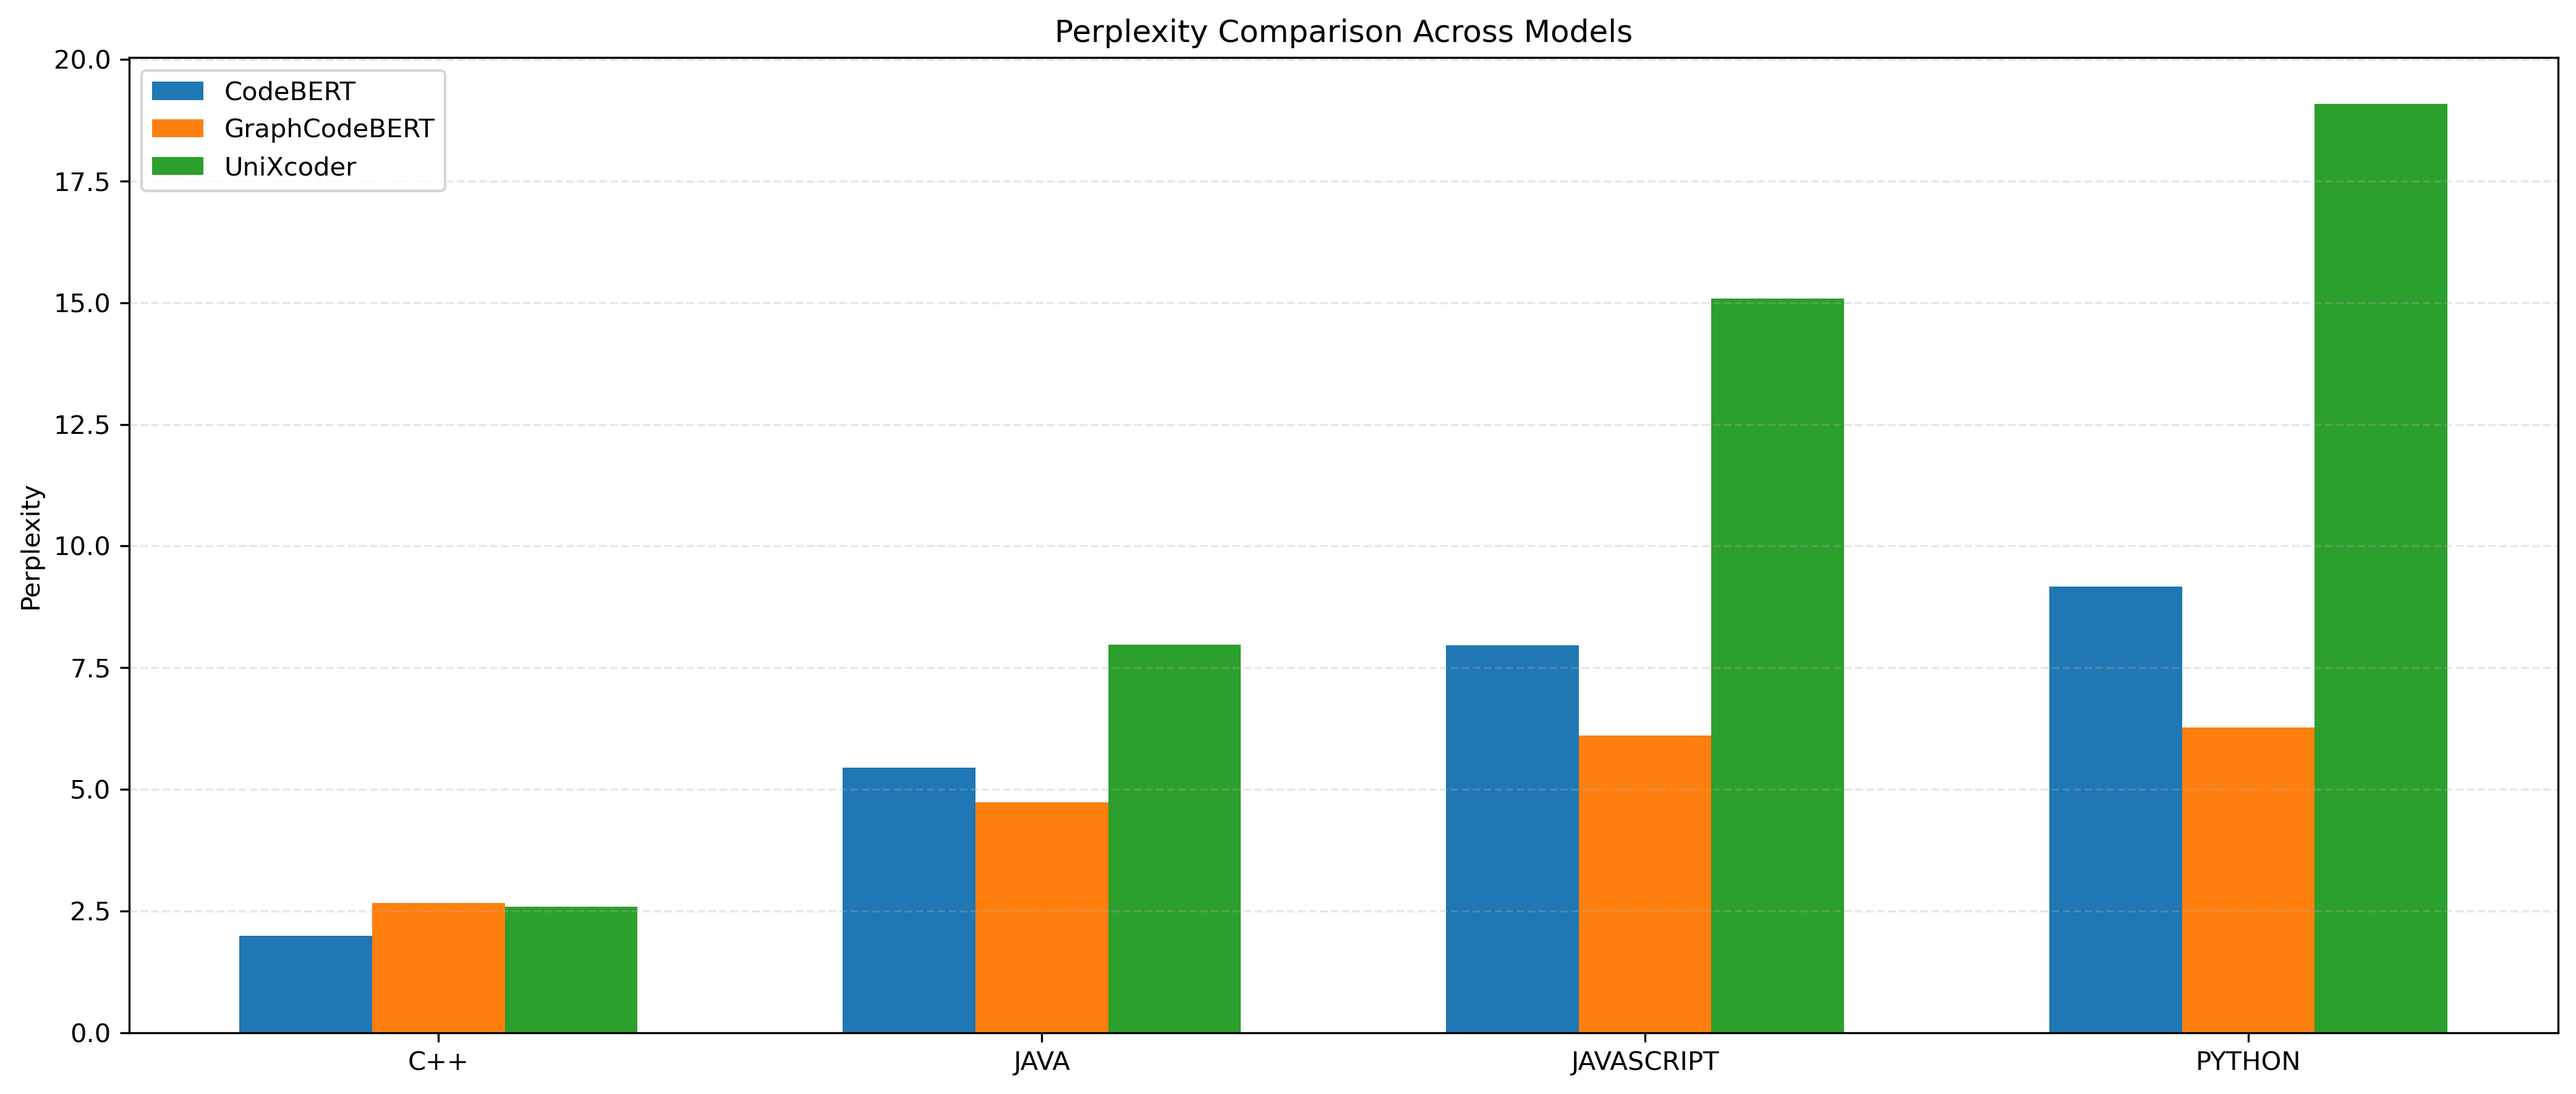
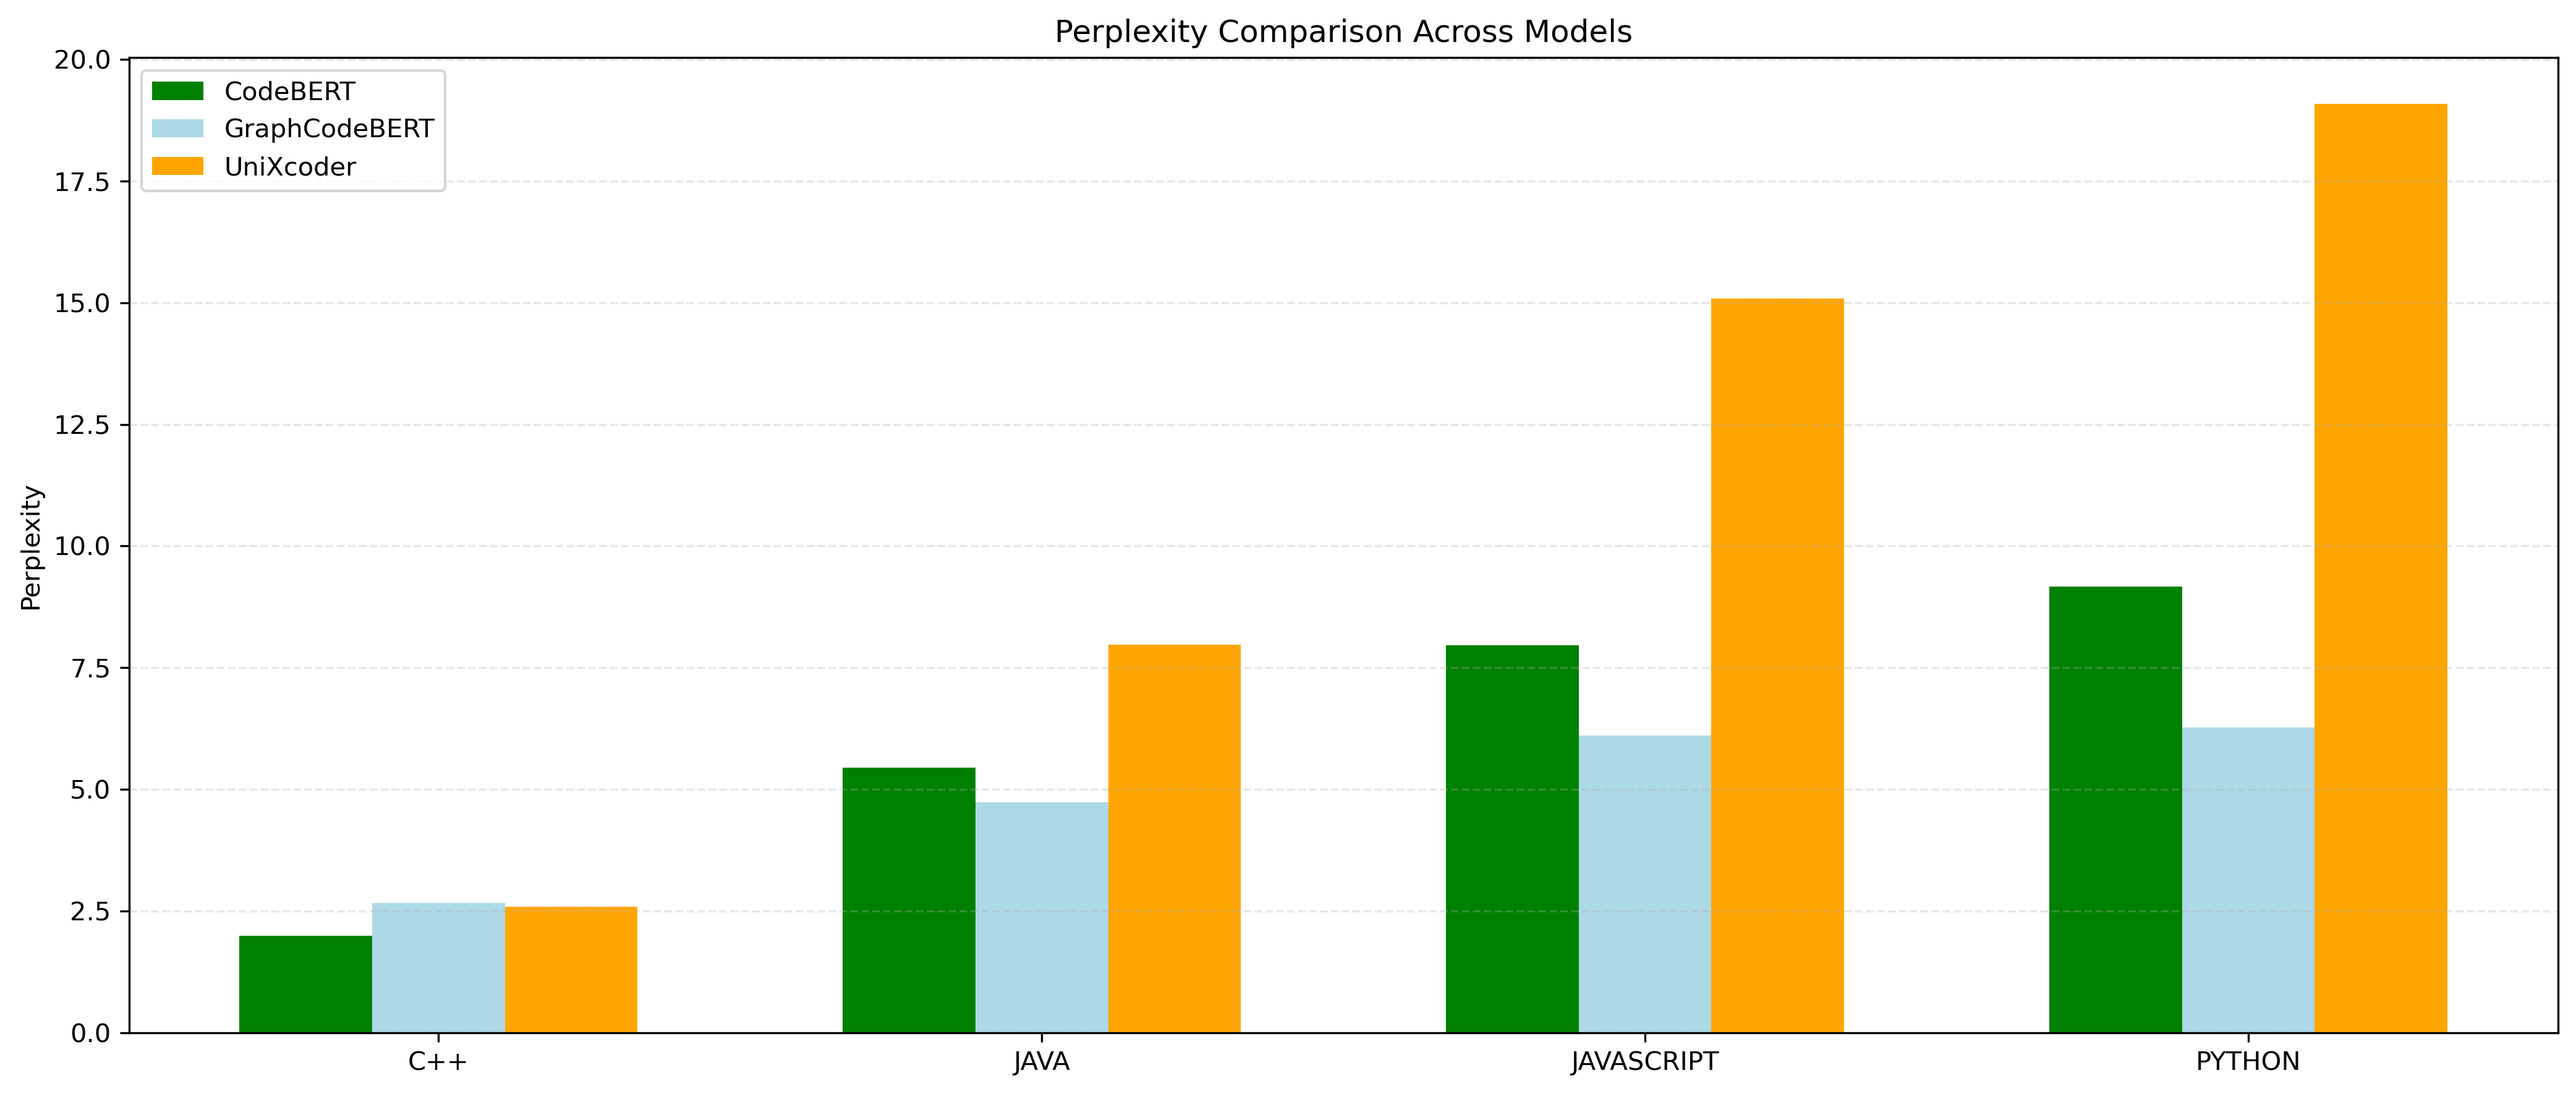
updated colors

diff --git a/BERTModels/Evaluate/older_lang_eval/viz.py b/BERTModels/Evaluate/older_lang_eval/viz.py
@@ -226,6 +226,13 @@ def plot_model_comparison(all_models_data):
             plt.savefig(out_file, dpi=300, bbox_inches="tight")
             print(f"✓ Saved {out_file}")
             plt.close()
+
+
+model_colors = {
+    "CodeBERT": "green",      # CodeBERT always green
+    "GraphCodeBERT": "lightblue",      # GraphCodeBERT always blue
+    "UniXcoder": "orange"         # UniXcoder always purple
+}
 def plot_models_three_diagrams(all_models_data):
     """
     Produce 4 diagrams:
@@ -247,7 +254,13 @@ def plot_models_three_diagrams(all_models_data):
     fig, ax = plt.subplots(figsize=(14, 6))
     for i, model in enumerate(model_names):
         values = [all_models_data[model].get(lang, {}).get("top1", 0.0) for lang in languages]
-        ax.bar(x + i * width, values, width=width, label=model)
+        ax.bar(
+            x + i * width,
+            values,
+            width=width,
+            label=model,
+            color=model_colors.get(model, "#95E1D3")  # default color if model not in dict
+        )
 
     ax.set_xticks(x + width * (n_models-1)/2)
     ax.set_xticklabels(languages)
@@ -267,7 +280,13 @@ def plot_models_three_diagrams(all_models_data):
     fig, ax = plt.subplots(figsize=(14, 6))
     for i, model in enumerate(model_names):
         values = [all_models_data[model].get(lang, {}).get("top5", 0.0) for lang in languages]
-        ax.bar(x + i * width, values, width=width, label=model)
+        ax.bar(
+            x + i * width,
+            values,
+            width=width,
+            label=model,
+            color=model_colors.get(model, "#95E1D3")  # default color if model not in dict
+        )
 
     ax.set_xticks(x + width * (n_models-1)/2)
     ax.set_xticklabels(languages)
@@ -287,7 +306,13 @@ def plot_models_three_diagrams(all_models_data):
     fig, ax = plt.subplots(figsize=(14, 6))
     for i, model in enumerate(model_names):
         values = [all_models_data[model].get(lang, {}).get("top10", 0.0) for lang in languages]
-        ax.bar(x + i * width, values, width=width, label=model)
+        ax.bar(
+            x + i * width,
+            values,
+            width=width,
+            label=model,
+            color=model_colors.get(model, "#95E1D3")  # default color if model not in dict
+        )
 
     ax.set_xticks(x + width * (n_models-1)/2)
     ax.set_xticklabels(languages)
@@ -307,7 +332,13 @@ def plot_models_three_diagrams(all_models_data):
     fig, ax = plt.subplots(figsize=(14, 6))
     for i, model in enumerate(model_names):
         values = [all_models_data[model].get(lang, {}).get("perplexity", 0.0) for lang in languages]
-        ax.bar(x + i * width, values, width=width, label=model)
+        ax.bar(
+            x + i * width,
+            values,
+            width=width,
+            label=model,
+            color=model_colors.get(model, "#95E1D3")  # default color if model not in dict
+        )
 
     ax.set_xticks(x + width * (n_models-1)/2)
     ax.set_xticklabels(languages)
